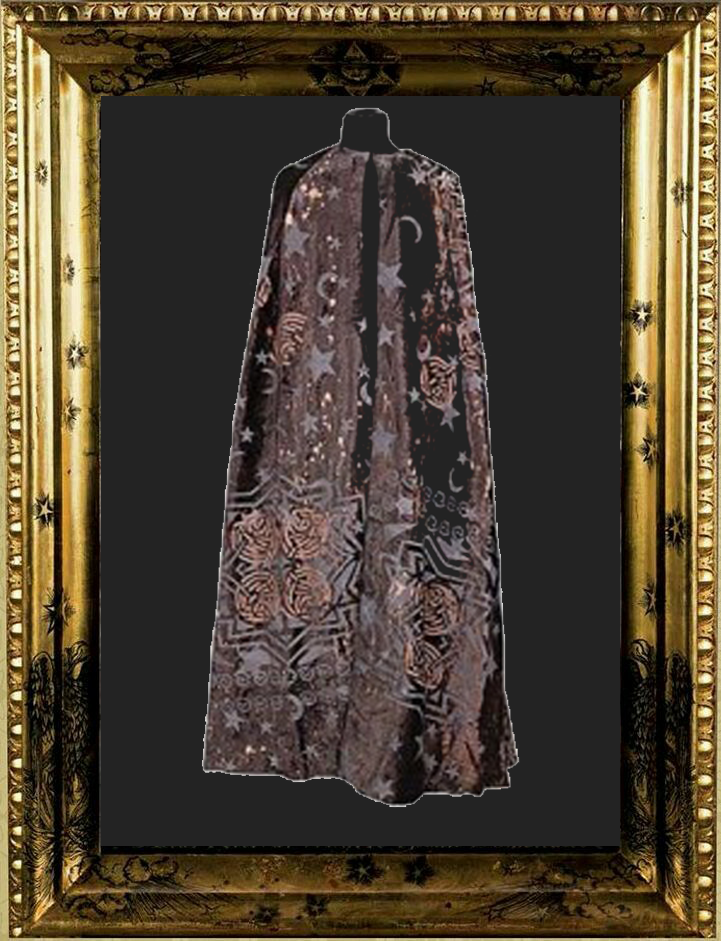
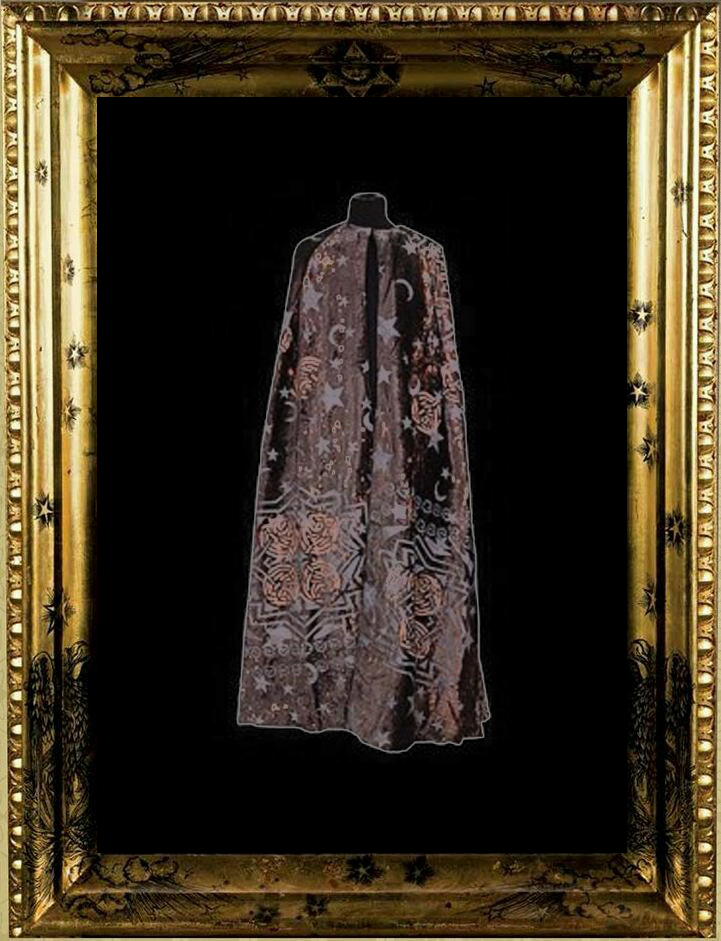
Intégration reliques+correctifs avertissments

diff --git a/src/Sectionrelique.js b/src/Sectionrelique.js
@@ -21,10 +21,12 @@ const Divreliques2 = {
     marginTop : "160px",
     marginLeft : "140px",
     flexDirection: "column",
+
 }
 const Imgreliques = {
     maxWidth : "90%",
     margin : "auto",
+    boxShadow : "0px 0px 20px 10px grey"
 }
 const Divempty = {
     width : "50%",
